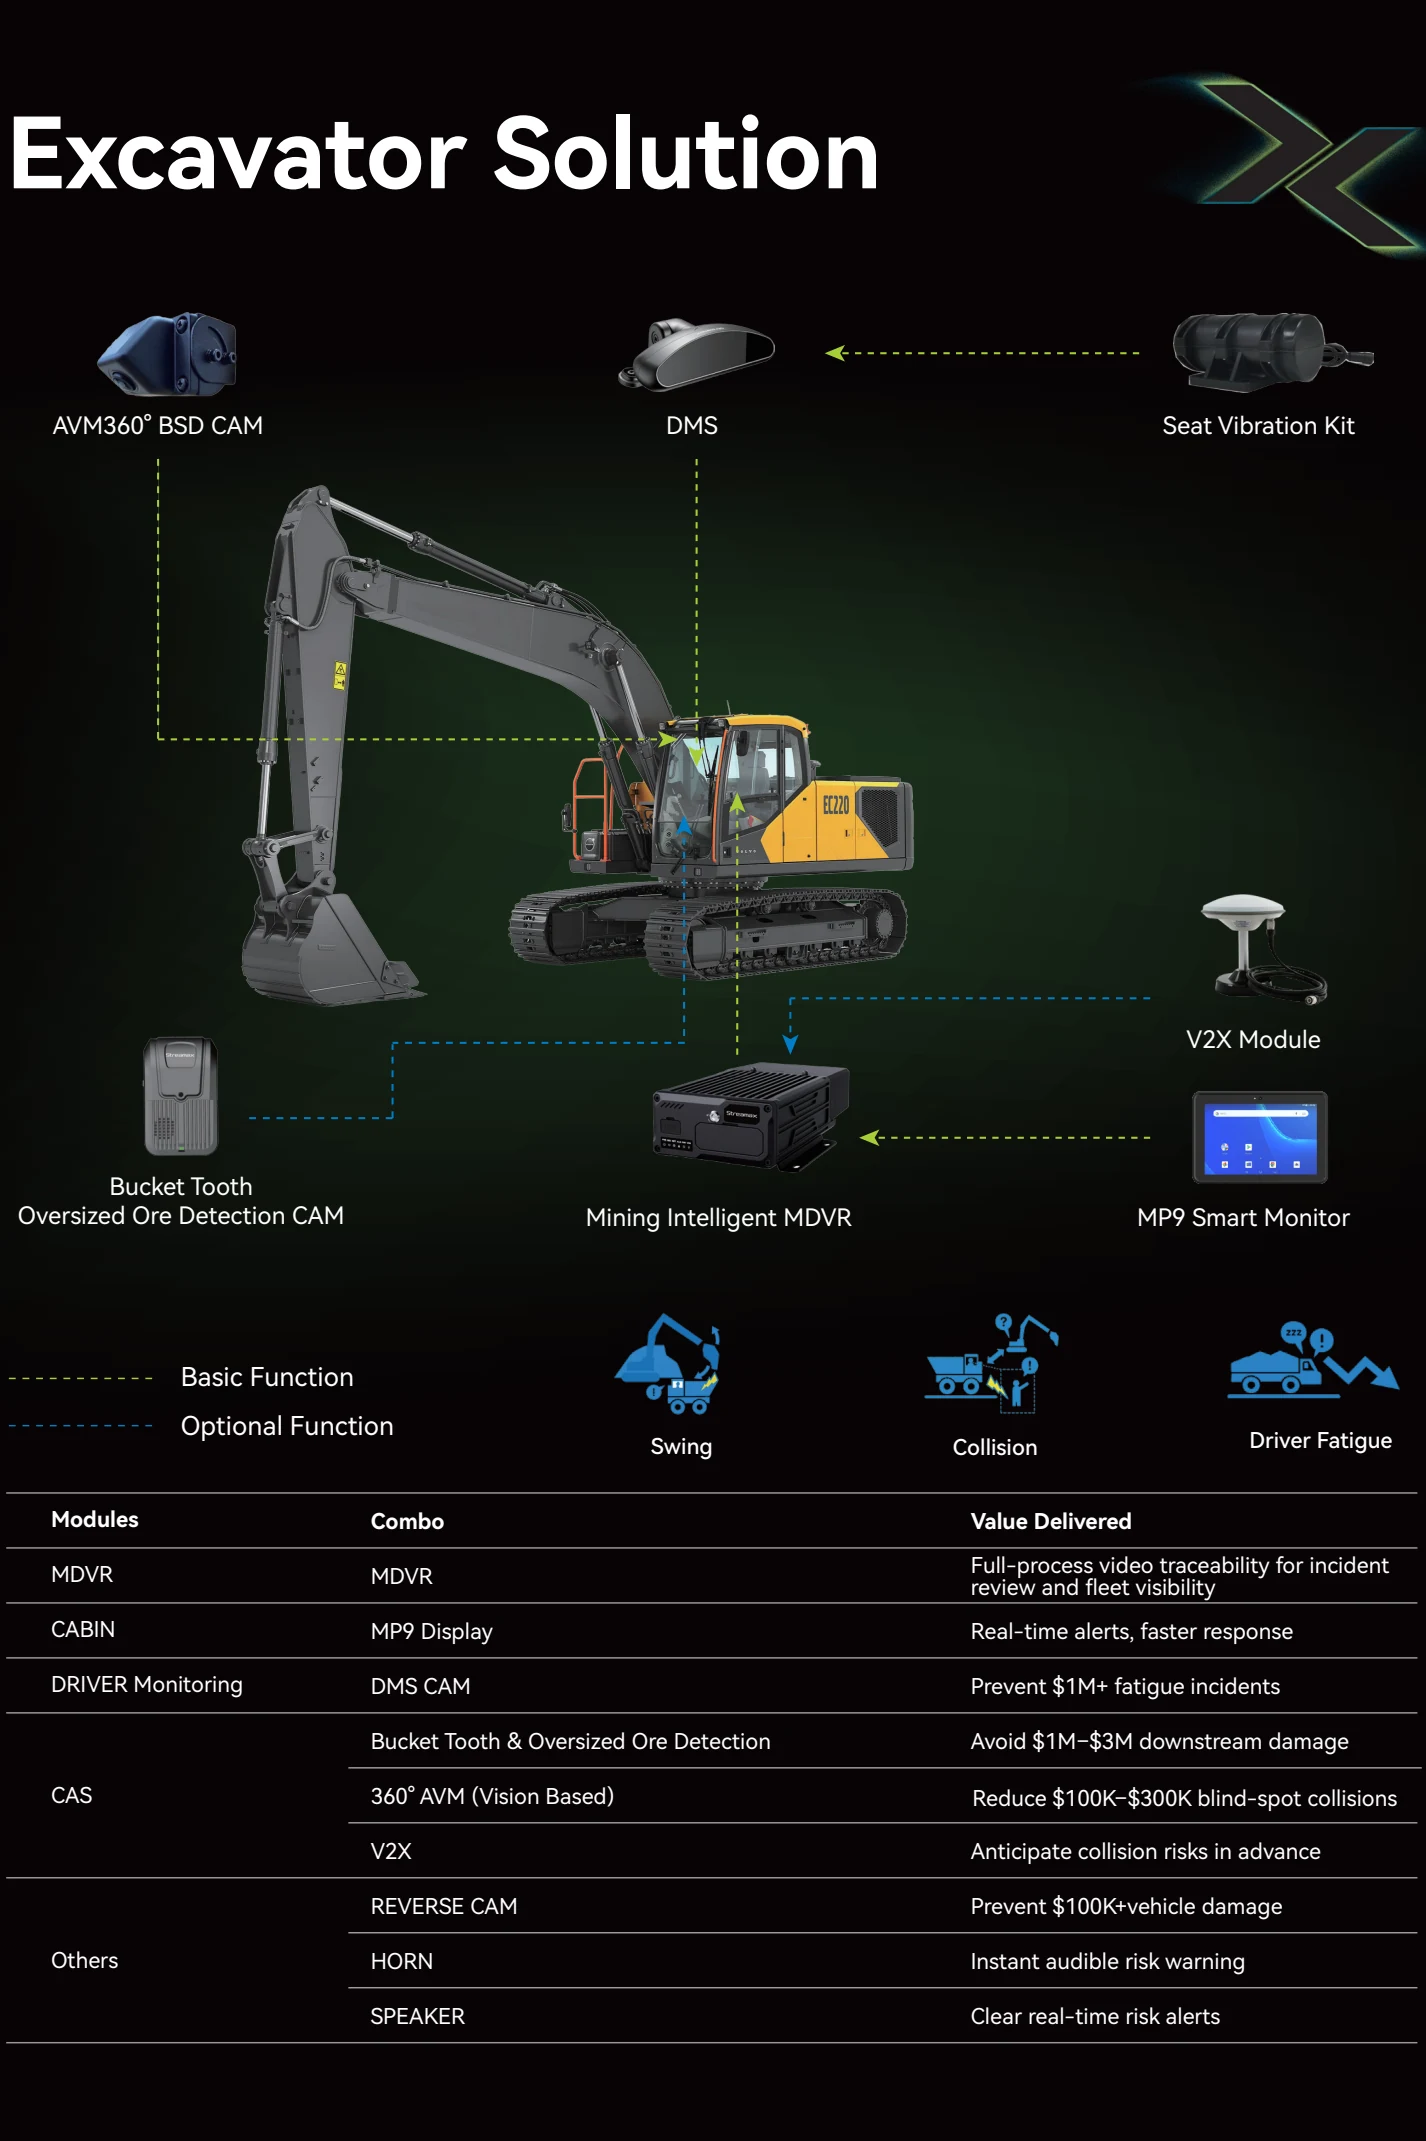
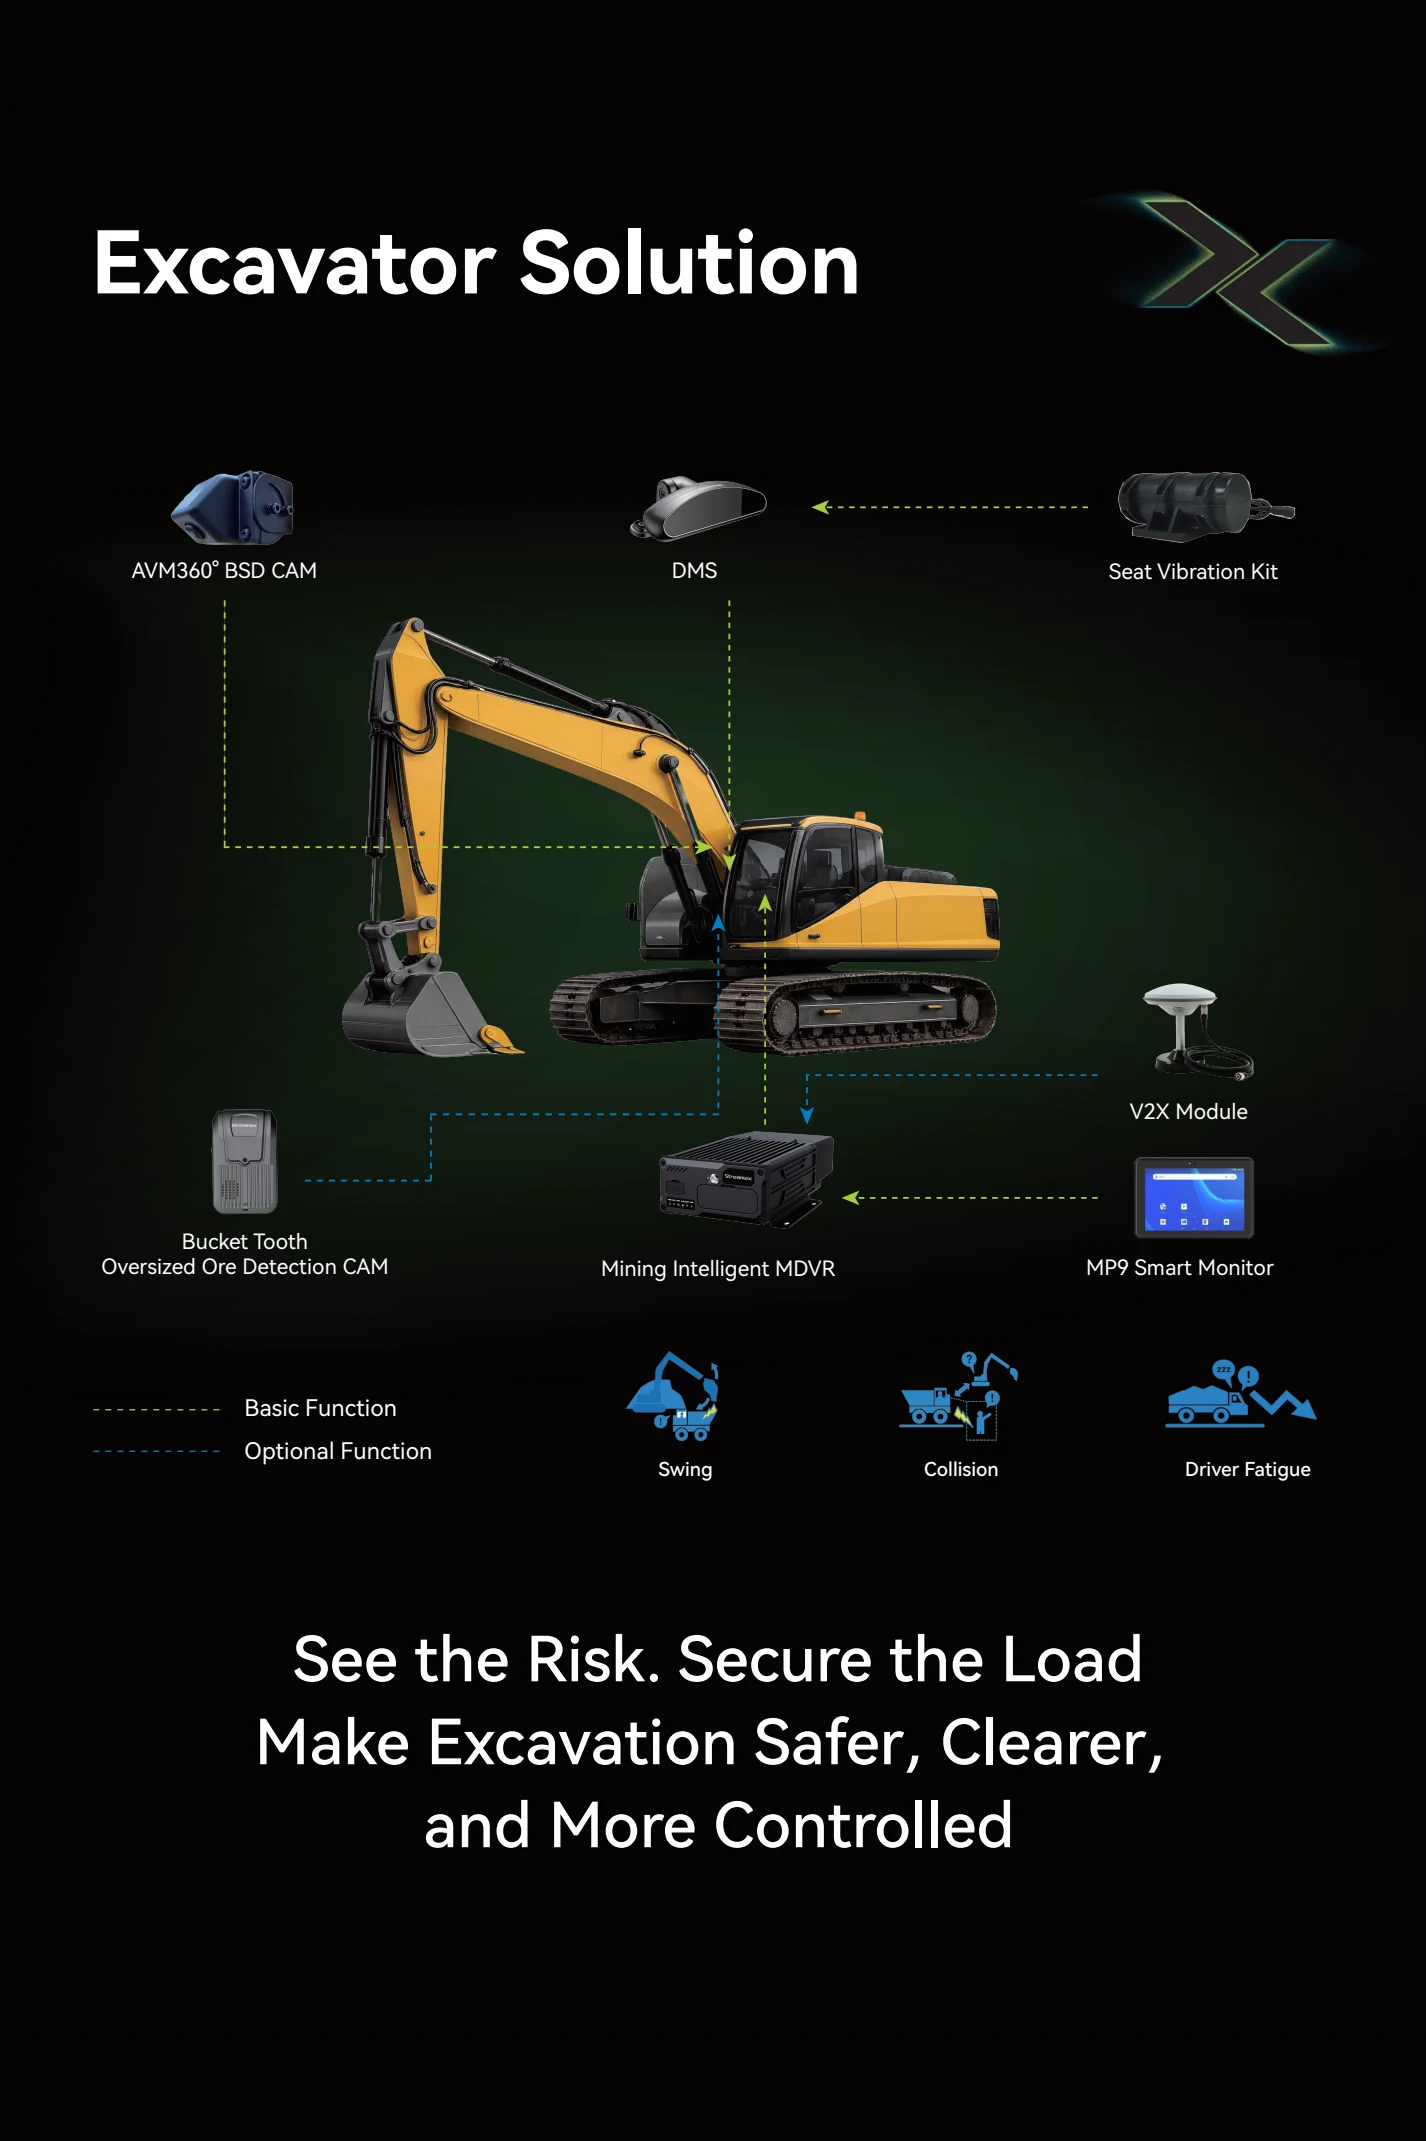
Add files via upload

diff --git a/index.html b/index.html
@@ -997,7 +997,7 @@
 
       .vehicle-solution-nav {
         display: grid;
-        grid-template-columns: repeat(3, minmax(0, 1fr));
+        grid-template-columns: repeat(2, minmax(0, 1fr));
       }
 
       .vehicle-solution-select {
@@ -1154,7 +1154,7 @@
           <li>
             <button class="product-tab product-tab--overview product-select" type="button" data-product="vehicle-solutions" aria-controls="product-vehicle-solutions">
               <strong>Complete Vehicle Solutions</strong>
-              <span>Haul, Excavator, Diesel</span>
+              <span>Excavator and Haul Truck</span>
             </button>
           </li>
         </ul>
@@ -1163,6 +1163,18 @@
       <p class="nav-label nav-label--products">Products</p>
       <nav aria-label="Mining product range">
         <ul class="product-nav">
+          <li>
+            <button class="product-tab product-select" type="button" data-product="m10" aria-controls="product-m10">
+              <strong>M10</strong>
+              <span>Mobile DVR</span>
+            </button>
+          </li>
+          <li>
+            <button class="product-tab product-select" type="button" data-product="mp9" aria-controls="product-mp9">
+              <strong>MP9</strong>
+              <span>SerDes Screen</span>
+            </button>
+          </li>
           <li>
             <button class="product-tab product-select" type="button" data-product="c46" aria-controls="product-c46">
               <strong>C46</strong>
@@ -1187,18 +1199,6 @@
               <span>Cabin Camera</span>
             </button>
           </li>
-          <li>
-            <button class="product-tab product-select" type="button" data-product="m10" aria-controls="product-m10">
-              <strong>M10</strong>
-              <span>Mobile DVR</span>
-            </button>
-          </li>
-          <li>
-            <button class="product-tab product-select" type="button" data-product="mp9" aria-controls="product-mp9">
-              <strong>MP9</strong>
-              <span>SerDes Screen</span>
-            </button>
-          </li>
         </ul>
       </nav>
     </aside>
@@ -1215,12 +1215,12 @@
           <ul class="mobile-product-nav">
             <li><button class="mobile-tab product-select" type="button" data-product="solution-map" aria-controls="product-solution-map" aria-current="page">Map</button></li>
             <li><button class="mobile-tab product-select" type="button" data-product="vehicle-solutions" aria-controls="product-vehicle-solutions">Vehicle Solutions</button></li>
+            <li><button class="mobile-tab product-select" type="button" data-product="m10" aria-controls="product-m10">M10</button></li>
+            <li><button class="mobile-tab product-select" type="button" data-product="mp9" aria-controls="product-mp9">MP9</button></li>
             <li><button class="mobile-tab product-select" type="button" data-product="c46" aria-controls="product-c46">C46</button></li>
             <li><button class="mobile-tab product-select" type="button" data-product="c53" aria-controls="product-c53">C53</button></li>
             <li><button class="mobile-tab product-select" type="button" data-product="c29n" aria-controls="product-c29n">C29N</button></li>
             <li><button class="mobile-tab product-select" type="button" data-product="c34" aria-controls="product-c34">C34</button></li>
-            <li><button class="mobile-tab product-select" type="button" data-product="m10" aria-controls="product-m10">M10</button></li>
-            <li><button class="mobile-tab product-select" type="button" data-product="mp9" aria-controls="product-mp9">MP9</button></li>
           </ul>
         </nav>
       </header>
@@ -1274,7 +1274,7 @@
           id="product-vehicle-solutions"
           data-product-page="vehicle-solutions"
           data-page-title="Complete Vehicle Solutions | Streamax Mining"
-          data-description="Explore complete Streamax safety solutions for haul trucks, excavators, and diesel trucks."
+          data-description="Explore complete Streamax safety solutions for excavators and haul trucks."
           hidden
         >
           <header class="source-header">
@@ -1285,34 +1285,18 @@
           </header>
 
           <nav class="vehicle-solution-nav" aria-label="Vehicle solution selection">
-            <button class="vehicle-solution-select" type="button" data-vehicle-solution="haul-truck" aria-current="page">Haul Truck</button>
-            <button class="vehicle-solution-select" type="button" data-vehicle-solution="excavator">Excavator</button>
-            <button class="vehicle-solution-select" type="button" data-vehicle-solution="diesel-truck">Diesel Truck</button>
+            <button class="vehicle-solution-select" type="button" data-vehicle-solution="excavator" aria-current="page">Excavator</button>
+            <button class="vehicle-solution-select" type="button" data-vehicle-solution="haul-truck">Haul Truck</button>
           </nav>
 
           <div class="vehicle-solution-stage">
-            <img
-              class="vehicle-solution-image expandable-image"
-              data-vehicle-image="haul-truck"
-              data-src="./assets/haul-truck-solution.webp"
-              width="1426"
-              height="2141"
-              alt="Complete Streamax haul truck safety solution with vehicle, cameras, modules, and delivered value"
-              aria-label="Open haul truck solution full screen"
-              role="button"
-              tabindex="0"
-              loading="lazy"
-              decoding="async"
-              data-expand-image
-              data-image-kind="vehicle"
-            >
             <img
               class="vehicle-solution-image expandable-image"
               data-vehicle-image="excavator"
               data-src="./assets/excavator-solution.webp"
               width="1426"
               height="2141"
-              alt="Complete Streamax excavator safety solution with vehicle, cameras, modules, and delivered value"
+              alt="Complete Streamax excavator safety solution from page 3 of the mining trifold brochure"
               aria-label="Open excavator solution full screen"
               role="button"
               tabindex="0"
@@ -1320,22 +1304,25 @@
               decoding="async"
               data-expand-image
               data-image-kind="vehicle"
-              hidden
+              data-source-document="三折页_矿山.pdf"
+              data-source-page="3"
             >
             <img
               class="vehicle-solution-image expandable-image"
-              data-vehicle-image="diesel-truck"
-              data-src="./assets/diesel-truck-solution.webp"
+              data-vehicle-image="haul-truck"
+              data-src="./assets/haul-truck-solution.webp"
               width="1426"
               height="2141"
-              alt="Complete Streamax diesel truck safety solution with vehicle, cameras, modules, and delivered value"
-              aria-label="Open diesel truck solution full screen"
+              alt="Complete Streamax haul truck safety solution from page 4 of the mining trifold brochure"
+              aria-label="Open haul truck solution full screen"
               role="button"
               tabindex="0"
               loading="lazy"
               decoding="async"
               data-expand-image
               data-image-kind="vehicle"
+              data-source-document="三折页_矿山.pdf"
+              data-source-page="4"
               hidden
             >
           </div>
@@ -1930,12 +1917,12 @@
       const productIds = [
         "solution-map",
         "vehicle-solutions",
+        "m10",
+        "mp9",
         "c46",
         "c53",
         "c29n",
         "c34",
-        "m10",
-        "mp9",
       ];
       const validProducts = new Set(productIds);
       const selectors = [...document.querySelectorAll(".product-select")];
@@ -1957,7 +1944,7 @@
       const announcer = document.querySelector("#product-announcer");
       const reduceMotion = window.matchMedia("(prefers-reduced-motion: reduce)");
       let activeProduct = "";
-      let activeVehicle = "haul-truck";
+      let activeVehicle = "excavator";
 
       function loadImage(image) {
         if (!image) return;
